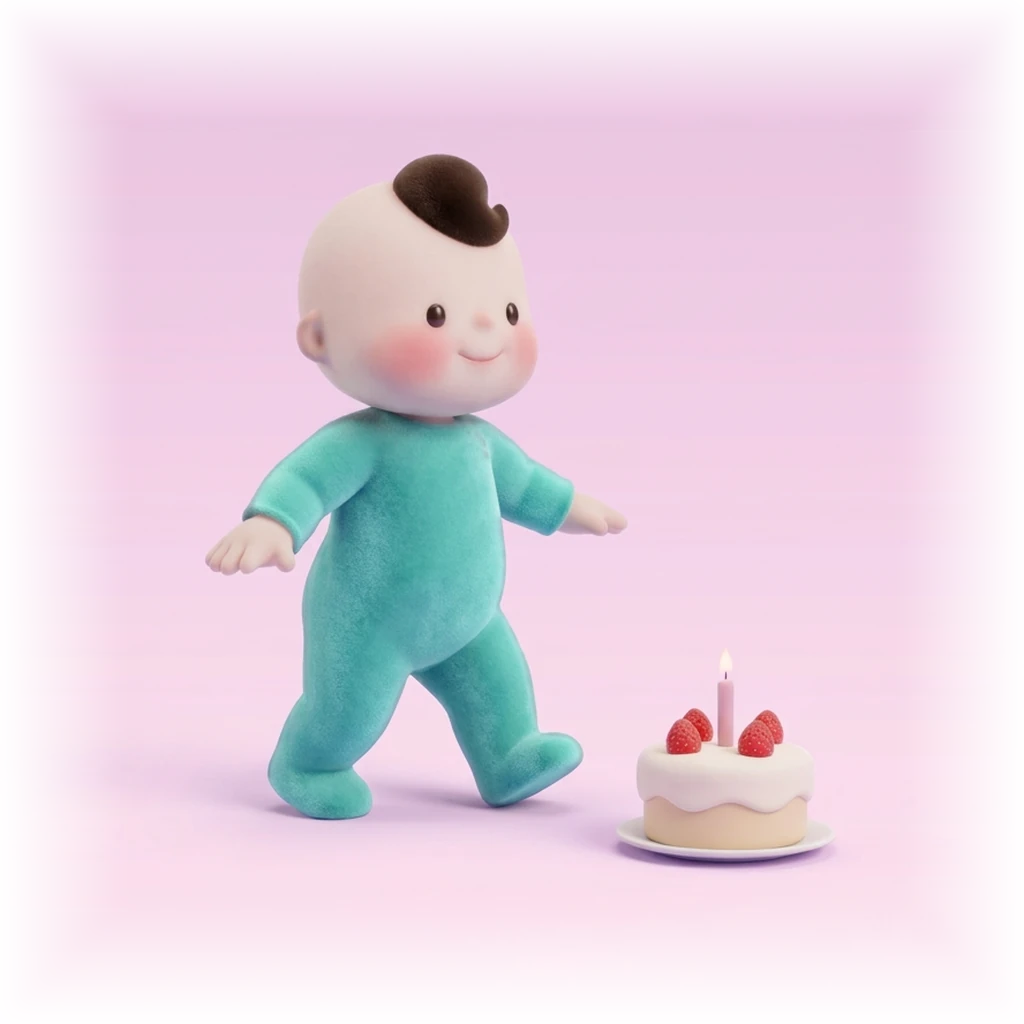
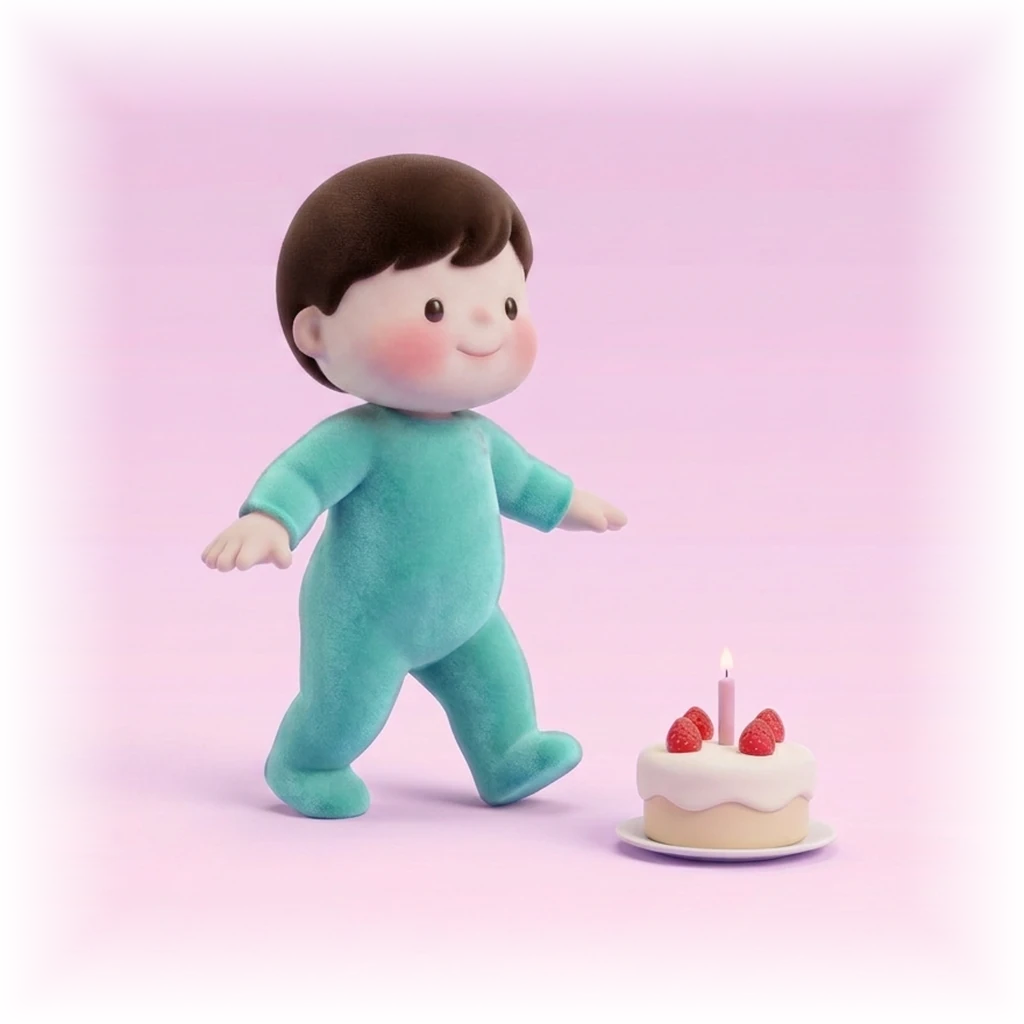
v0.62 10~11·12개월 아기 머리카락(단순한 짧은 머리)

diff --git a/index.html b/index.html
@@ -1828,7 +1828,7 @@ function fillSettings() {
   $('set-nick').textContent = me.nickname; $('set-members').textContent = Object.values(nickById).join(', ');
   for (const b of $('char-seg').children) b.classList.toggle('on', b.dataset.v === charOf(me.id));
 }
-const VER = 'v0.61 · 10-12';
+const VER = 'v0.62 · 10-12';
 $('ver').textContent = '기특일기 ' + VER;
 $('reload-ver').textContent = VER.split(' · ')[0];
 // ── 새 판 자동 반영: 홈 화면 앱은 화면을 이어 쓰므로, 앞으로 올 때마다 서버의 VER를 보고 다르면 새로고침
